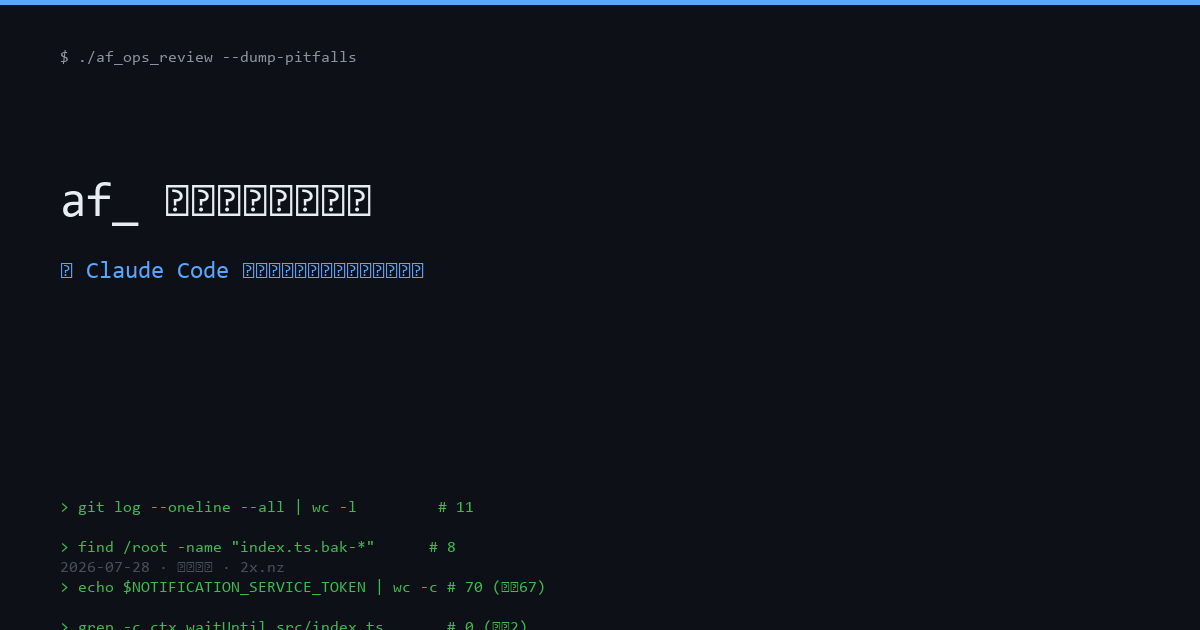
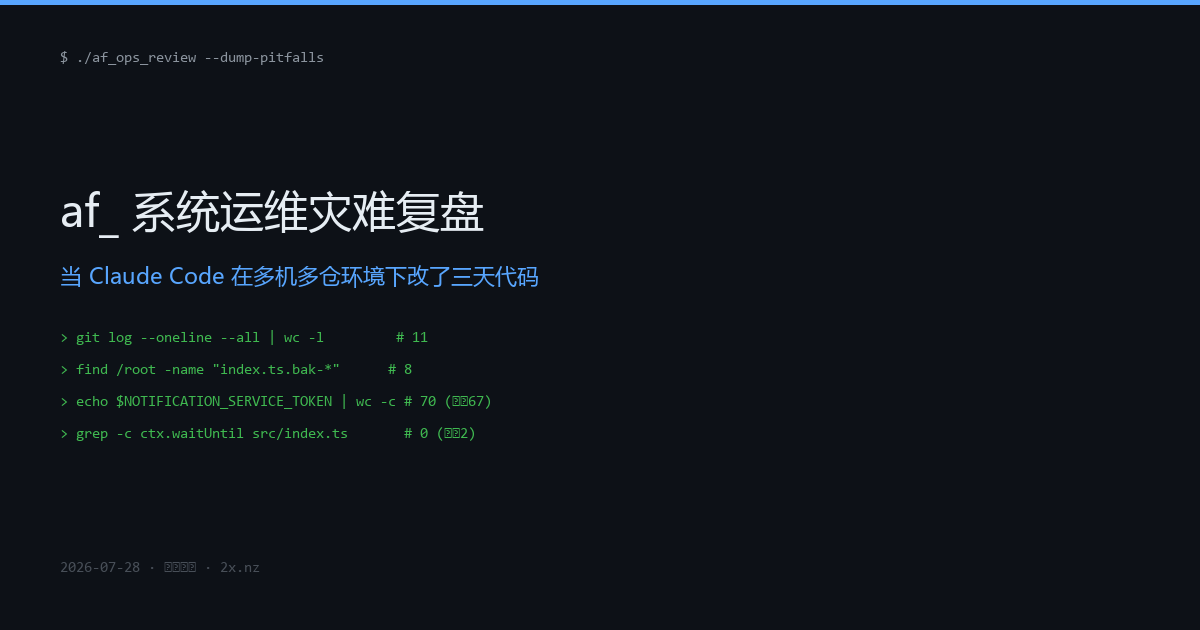
post: af_ 系统运维灾难复盘（重写版）

diff --git a/posts/af-claude-code-ops-pitfalls.md b/posts/af-claude-code-ops-pitfalls.md
@@ -7,101 +7,163 @@ draft: false
 coverImage: /img/af-claude-code-ops-pitfalls.png
 ---
 
-## 背景
+:::caution
+本文由 DeepSeek V4 Pro 基于实际开发记录撰写，内容已经人工审核。
+:::
 
-af_ 是一个全站 SSR 的个人站点系统，由 7 个 GitHub 仓库（前端 / 博客数据 / 论坛后端 / AI 生图后端 / 友链数据 / 文件列表 / 评论存储）组成，跑在两台 VPS 上——一台公网主力、一台局域网 GPU 盒子。全站通过 Cloudflare CDN + cloudflared 隧道对外暴露。
+2026 年 7 月 28 日，我计划给全站做一轮性能优化，顺带把论坛的通知系统重构掉。预期半天收工，结果干了整整一天，中间两次差点把线上功能丢光。事后来看，所有的问题都指向同一件事：**在多机多仓、有生产数据的真实环境里，AI 编程助手缺乏仓库拓扑感知能力时，会系统性犯错。**
 
-2026 年 7 月 28 日，我用 Claude Code 做了一轮全站性能优化和论坛通知系统重构，踩出了一批「只有在真实多机环境下才会爆」的坑。这篇文章不是教程，是验尸报告。
+这篇文章不是教程，是验尸报告。
 
-## 坑一：GitHub 仓库里躺着 V1，生产跑着 V2
+---
 
-AI 生图后端经历过一次 JSON → SQLite 大重构，旧代码在 `node-server/`（V1），新代码在 `node-server-v2/`（V2）。看似井水不犯河水——supervisor 管着 `nDI-v2`（9090 端口），`nDI`（V1）早就停了。
+## 起点：一切看起来都很正常
 
-但问题是：我收 V2 源码进 GitHub 的时候，从远端拉回来的已经是**被我改过的文件**——因为我在 scp 上去之前先在远端就地改了一轮，V2 的原始代码从未进入过任何版本库。而留在 GitHub 上的 `node-server/` 是一个不完整的 V1 残骸，缺了 `notify.ts` 等关键文件。
+af_ 是一个全站 SSR 的个人站点系统，架构上由 7 个 GitHub 仓库组成——前端（`af_frontend`）、博客内容（`af_blog-data`）、论坛后端（`af_forum-backend`）、AI 生图（`af_draw-backend`）、友链数据（`af_friends-data`）、文件列表（`af_files-data`）、以及 giscus 评论存储（`af_comments-data`）。
 
-然后我又在没区分 V1/V2 的情况下，对 V1 目录一顿改。等发现 `tsx watch` 热重载不生效、supervisor 重启之后改了的东西全丢了，才意识到——我根本没动生产实例。
+部署层面，前端和论坛跑在一台公网 VPS 上（Express + supervisor + wrangler dev），生图后端跑在局域网的另一台 GPU 盒子上，整个站点通过 Cloudflare + cloudflared 隧道对外暴露。
 
-**教训**：远端放源码但不跟 git 同步的时候，你永远不知道你改的是哪一份。要么远端只放构建产物，要么远端就是 `git clone`，没有第三条路。
+看起来很规整。问题是：**规整只存在于我的脑子里，不存在于任何一个文件里。**
 
-## 坑二：Token 配置里的引号让通知系统从上线第一天就是死的
+当天动手之前，论坛后端的 `src/index.ts` 不在任何 git 仓库里——代码的"版本控制"是靠 `cp src/index.ts src/index.ts.bak-xxx` 手工备份，一共有 8 个这样的快照，但没有任何标记能告诉你"现在线上跑的是哪个"。前端稍微好一点，本地有个 git 仓库，但那个仓库没有任何 remote——唯一的源码副本在我这台 Windows 的硬盘上。
 
-论坛的 `/internal/notify` 是对外通知接口，生图后台通过它推送 LoRA 审核结果和图片推荐通知给用户。鉴权用的是常量时间比对：
+这些信息 Claude Code 都不知道。
 
-```ts
+---
+
+## 第一轮：V1 vs V2，改了半个小时才发现改错机器
+
+任务列表里有一项是"AI 生图端点检查"。AI 生图后端经历过一次 JSON → SQLite 大重构：旧代码在 `node-server/`（V1），新代码在 `node-server-v2/`（V2）。supervisor 里 `nDI-v2` 跑着 9090 端口的生产实例，`nDI` 早就停了。
+
+但 GitHub 上的 `af_draw-backend` 仓库里，V1 目录是一个不完整的残骸（`notify.ts` 等关键文件从来就没被提交过），V2 目录则根本没有进过版本控制——它的源码只存在于远端机器上的 `/root/nDI/node-server-v2/`。
+
+于是当 Claude Code 开始改 AI 生图的通知代码时，它改的是 GitHub 上那一份 V1 残骸。而真正在跑的 V2 实例用的是 `tsx` 直接跑源码，改完没有热重载——需要 `supervisorctl restart`。
+
+改了半小时，部署上去毫无反应。查 supervisor 状态才发现：`nDI STOPPED`，`nDI-v2 RUNNING`。
+
+**教训一号**：源码只存在本地，被部署方只放构建产物。远端放源码但不跟 git 同步的时候，AI 助手会随机选择一个看起来像的目录开始改——它不知道哪个是活的。
+
+---
+
+## 第二轮：限流和会话管理被静悄悄抹掉了
+
+论坛后端的通知系统改造是当天的重头戏。在重构 `notifyByType` 函数时，Claude Code 注意到 TS 报错从 74 条降到了 65 条——删掉了一个废弃的函数，连带消掉了 9 条类型错误。
+
+但在提交代码的 diff 里，有经验的人会发现不对劲：文件从 6120 行变成了 6077 行，净减少 43 行——这不只是"删了一个废弃函数"能解释的。
+
+回头查 `src/index.ts.bak-*` 历史，发现更早的时候，QQ 绑定功能在一个**不含限流逻辑**的旧基线上开发，开发完成后整份文件覆盖了线上版本。被覆盖掉的内容包括：
+
+- 6 项限流配置（注册 IP 冷却 / 验证邮件重发间隔 / 登录失败锁定阈值 / 等等）
+- `/api/user/sessions` 系列三个会话管理端点
+- `readGeoFromHeaders`（从 CF 头部提取访客地理位置）
+
+数据库的 migration 都还在——`ip_rate_limits` 表完好，`0013` 到 `0016` 号 migration 都已应用。**但后端代码没了。** 于是所有限流直接消失：同一 IP 可以在 5 秒内注册 100 次，登录爆破防护为零。
+
+前端也有同类问题。上一轮性能优化（CSS Link 预载头、Rolldown chunk 合并、hljs.css 按路由加载）只存在于 VPS 上的 `/root/svaf-next`——那不是一个 git 仓库。本地仓库完全没有这些改动，下一次构建就会覆盖。
+
+**教训二号**：改完并真实上线后，立刻提交。不要攒着。攒着的后果就是下次不小心整体撤销，一次丢掉一大片。
+
+---
+
+## 第三轮：Token 配置里多了一对引号，通知系统从 V1 时代就是死的
+
+重构论坛通知接口时，需要统一 `/internal/notify` 和 `/internal/notify/email` 两个端点。前者处理 QQ + 邮件双渠道，后者只发邮件。生图后台通过这两个接口推送 LoRA 审核结果和图片推荐通知。
+
+鉴权用的是常量时间比对：
+
+```typescript
 const expected = String(env.NOTIFICATION_SERVICE_TOKEN || "");
 const token = auth.slice(7); // 去掉 "Bearer "
 if (token.length !== expected.length) return 401;
 ```
 
-而 `.dev.vars` 里的写法是：
+`.dev.vars` 里的写法是：
 
 ```
 NOTIFICATION_SERVICE_TOKEN="ns_c800e73e..."
 ```
 
-wrangler 对 `.dev.vars` 的处理是「等号后面全部是值」，所以 `expected` 的实际值是 `"ns_..."`——带着双引号，70 个字符。调用方传的是不带引号的 67 个字符。长度比对直接挂掉，返回 401。
+wrangler 对 `.dev.vars` 的处理是「等号后面全部是值，不剥引号」。于是 `expected` 的实际值是 `"ns_..."`——带着双引号，70 个字符。调用方传的是不带引号的 67 个字符。长度比对第一步就挂，直接 401。
 
-这意味着**从通知系统部署的那天起，所有外部通知请求都是 401**。用户收到的 QQ 通知全部来自 `sendQQNotify` 那条直连 OneBot 的旁路，邮件则从来就没发出去过——因为邮件走的是 `/internal/notify/email`，同样被这条 token 拦住了。
+这意味着**从通知系统部署的那天起，所有外部通知请求都走不通鉴权**。用户收到的 QQ 通知全部来自 `sendQQNotify` 那条直连 OneBot 的旁路（走的是 SVAF_INTERNAL_API_TOKEN，另一个 token），邮件则从来就没发出去过——因为老的 `/internal/notify/email` 也被同一条 token 拦住了。
 
-**教训**：`.dev.vars` 里面不要加引号。更根本的是——部署后的第一条验证不应该是「接口返回了 200 吗」，而应该是「用户真的收到了吗」。
+这个问题跟今天的任何改动都无关——它从配置之日起就在那。只是从来没有人验证过"用户真的收到了吗"。
 
-## 坑三：不创建 git 提交的开发模式 = 定时炸弹
+**教训三号**：部署后的第一条验证不应该是"接口返回了 200 吗"，而应该是"用户真的收到邮件了吗"。
 
-论坛后端在很长时间里不是 git 仓库。代码改动靠 `cp src/index.ts src/index.ts.bak-xxx` 手工备份。于是就有了 8 个 `index.ts.bak-*` 文件，每个都是某个时间点的线上状态快照——但没有一个能告诉你「现在跑的是哪个」。
+---
 
-结果就是：QQ 绑定功能在一个不含限流逻辑的旧基线上开发，上线时整份覆盖了 `src/index.ts`，把已上线的 6 项限流配置（注册冷却 / 验证邮件重发 / 登录失败锁定等）、三个会话管理端点、地理位置读取函数全部抹掉。数据库的 migration 还在（`ip_rate_limits` 表完好），但后端代码没了——所有限流直接消失。
+## 第四轮：ctx.waitUntil，Workers 运行时的无声杀手
 
-更离谱的是前端：上一轮性能优化（CSS 预加载头 / chunk 合并 / hljs.css 下放）只存在于 VPS 上的 `/root/svaf-next`（那不是 git 仓库），本地仓库里完全没有。下一次本地构建就会覆盖掉。
+通知系统重构完成后，QQ 消息能收到了，但邮件死活不发。日志里干干净净，没有任何报错。
 
-**教训**：代码改动一旦上线，立刻提交。这条不是靠自觉，是靠今天差点丢掉两套功能换来的肌肉记忆。
+排查到最后，问题出在 Workers 运行时对异步任务的处理方式跟 Node.js 完全不同：
 
-## 坑四：Workers 运行时会在 return 之后砍掉你的异步任务
-
-通知系统重构后，QQ 能收到了，邮件怎么都发不出去。排查了半天，发现是 Workers 运行时的行为跟 Node.js 不一样：
-
-```ts
-// 这段代码在 Node.js 里完全正常
-sendQQNotify(userId, qqMsg).catch(() => {});
+```typescript
+// 在 Node.js 里完全正常——Promise 在后台自己跑完
+sendEmail(email, subject, body, env).catch(() => {});
 return jsonResponse({ ok: true });
-// sendQQNotify 在后台继续跑，最终发出
 
-// 但在 Cloudflare Workers 里
-ctx.waitUntil(sendQQNotify(userId, qqMsg).catch(() => {}));
-return jsonResponse({ ok: true });
-// 不加 ctx.waitUntil，sendQQNotify 的 Promise 会被运行时在 response 返回后立刻 GC
+// 但在 Cloudflare Workers 里，response 返回后运行时立刻回收未完成的 Promise
+// 必须显式告诉运行时"等我跑完"
+ctx.waitUntil(sendEmail(email, subject, body, env).catch(...));
 ```
 
-`sendEmail` 同样中招。问题是 `.catch(() => {})` 把错误也吞了，日志里什么都不会出现——你以为发出去了，实际上被悄无声息地砍了。
+`sendQQNotify` 刚好加过 `ctx.waitUntil`，所以 QQ 能发；`sendEmail` 没加，所以邮件被静默砍掉。而 `.catch(() => {})` 又把所有异常吞了——既不发邮件，也不打日志。
 
-**教训**：在 Workers 里做 fire-and-forget，必须 `ctx.waitUntil()`。而且永远不要用空 catch。
+这个问题同时出现在 `/internal/notify` 的邮件分派和 `notifyByType` 的邮件路径上。全量 grep 一遍 `ctx.waitUntil`，又发现 `/api/webhook/posts`（博客文章广播）的 `sendOne` 函数里同时调了 `sendEmailByTemplate` 和 `notifyByType`——前者直发邮件，后者内部也发邮件——于是博客广播每篇邮件发两遍。
 
-## 坑五：论坛的 `res.set()` 不是「设置」，是「追加」
+**教训四号**：在 Workers 里做 fire-and-forget，必须 `ctx.waitUntil()`。而且永远不要用空的 `.catch(() => {})`。
 
-`@react-router/express` 搬运 RR Response 头到 Express response 时用的是 append 而非 set。这意味着如果在中间件里 `res.set("Cache-Control", "max-age=0, must-revalidate")`，它不是覆盖路由自己的 `Cache-Control`，而是**追加第二条**。
+---
 
-实测后果：`/__manifest` 同时带上 `max-age=0, must-revalidate` 与 `max-age=31536000, immutable`。Cloudflare 看到两条冲突指令，直接判 `DYNAMIC` 全量回源。URL 里带 `?version=<内容哈希>` 的 manifest 本该是永久缓存的，结果一次访问下两遍。
+## 第五轮：消息模板到底归谁管
 
-更惨的是 `/posts/rss.xml`、`/forum/rss.xml`、`/llms.txt`、`/robots.txt`——它们各自声明了 `max-age=600` 之类的缓存策略，全部被全局兜底值污染，没有一个生效。
+通知系统最初也是最终的设计都很清晰：调用方（生图后台）负责消息文案，论坛只做鉴权 + 偏好检查 + 渠道分派。
 
-**教训**：在 `@react-router/express` 架构下设全局响应头，必须覆盖 `res.writeHead` 而不是 `res.set`。
+但我在重构 `/internal/notify` 时画蛇添足，在论坛侧加了一个 switch 块，按 `type` 分类重写消息：
 
-## 坑六：消息模板到底归谁管
+```typescript
+case "lora":
+  emailSubject = "LoRA 模型审核结果";
+  emailBody = `<p>你的 LoRA 模型《${dName}》${dAction}。</p>`;
+  break;
+case "recommendation":
+  emailSubject = "你的图片被推荐了";
+  // ...
+```
 
-通知系统最初的设计是：生图后台通过 `sendEmail(type, subject, body)` 向论坛推送原始消息文本，论坛只做鉴权和转发。但我在重构时自作主张在论坛侧加了 switch 块，按 `type` 分类重写消息——"你的 LoRA 模型《xxx》已通过审核"、"你的图片《xxx》已被推荐"。
+生图后台那边，原始模板是这样的：
 
-用户立刻发现：消息变成了四不像。原来的模板被扔掉了，新生成的消息既没有上下文也没有风格。
+> 用户 #1 推荐了精选图片
+> 图片: /path/img.png
+> 理由: 构图很好
 
-正确做法是：**论坛只做透传，调用方决定消息内容**。论坛的职责是鉴权 + 偏好检查 + 渠道分派（QQ / 邮件），消息文案一律由调用方（生图后台）在调用时确定。论坛侧一个模板都不该有。
+到了论坛这边变成了「你的图片《精选图片》已被推荐」——原始的图片路径和推荐理由全丢了。
 
-**教训**：API 边界不清晰的时候，最容易做多。透传比生成安全一万倍。
+改回来只花了五分钟：删掉 switch 块，所有类型走 default 透传。`notifyLora` 和 `notifyRecommendation` 改回传 `subject + body` 原始模板。
 
-## 现在的状态
+**教训五号**：API 边界不清晰的时候最容易做多。透传比生成安全一万倍。消息的内容永远由数据的生产者决定。
 
-- 论坛通知系统：统一入口 `/internal/notify`，纯透传 `{user_id, type, subject, body}`，自动根据用户偏好分派 QQ/邮件
-- 生图后台：LoRA 审核 / 图片推荐的通知全部走论坛统一接口，QQ 直推走 OneBot 旁路
-- 博客广播：`post-bc.yml` 打论坛 `/api/webhook/posts`，一份请求同时触发邮件和 QQ
-- QQ 绑定 + 高粒度通知偏好设置已恢复到 `/forum/me`
-- 两个仓库均已纳入 git 版本控制并推送到 GitHub 私有仓库
-- 前端性能：`/posts` 页面总重量 3.3MB → 313KB
+---
 
-如果这篇文章能救一个人免于在没 git 的机器上改三天代码，那这些坑就没白踩。
+## 收尾：把仓库治好
+
+一天改完，最长的工时其实花在了两件跟代码无关的事上：
+
+**建仓库**：前端 `svaf-next` 没有任何 remote，论坛后端根本不是 git 仓库。给 7 个仓库统一加了 `af_` 前缀，按「后端源码必须私有」设置了可见性，把 VPS 上两份现役代码（前端 + 论坛后端）推到了 GitHub。前端推送前还发现历史里有 166MB 的 zip 误提交，用 `git filter-repo` 清理了一轮。
+
+**写 AGENTS.md**：仓库关系的唯一权威索引。每个项目的部署形态（VPS / 边缘 / 局域网）、对外域名、可见性，都在里面。以后任何 Claude 会话在这个仓库打开，第一件事就是读完这张表。
+
+---
+
+## 现在的全貌
+
+- 论坛通知统一入口 `/internal/notify`，纯透传 `{user_id, type, subject, body}`，按用户偏好分派 QQ/邮件
+- 生图后台 LoRA 审核 / 图片推荐全部走论坛统一接口，QQ 直推走 OneBot 旁路
+- 博客广播 `post-bc.yml` 打 `/api/webhook/posts`，一封请求同时触发邮件 + QQ（邮件已修：不再重复发送）
+- 前端 `/forum/me` 恢复了 QQ 绑定 + 7 类事件 × 2 渠道的高粒度通知偏好设置
+- 前端性能：`/posts` 页面总重量 3.3MB → 313KB（封面缩略图 / 头像压缩 / CSS 预加载 / chunk 合并 / 图标按需加载 / 论坛配图按需缩放）
+- 全站禁用 JavaScript 仍可访问，零 Suspense 流式占位
+
+如果有第三个人要在这种多机多仓的环境里用 AI 改代码，我唯一的建议是：**先把所有仓库建好、推上去、写完 AGENTS.md，然后再开始改。** 省下的时间不是一两个小时，是一整天和两条差点丢掉的线上功能。
